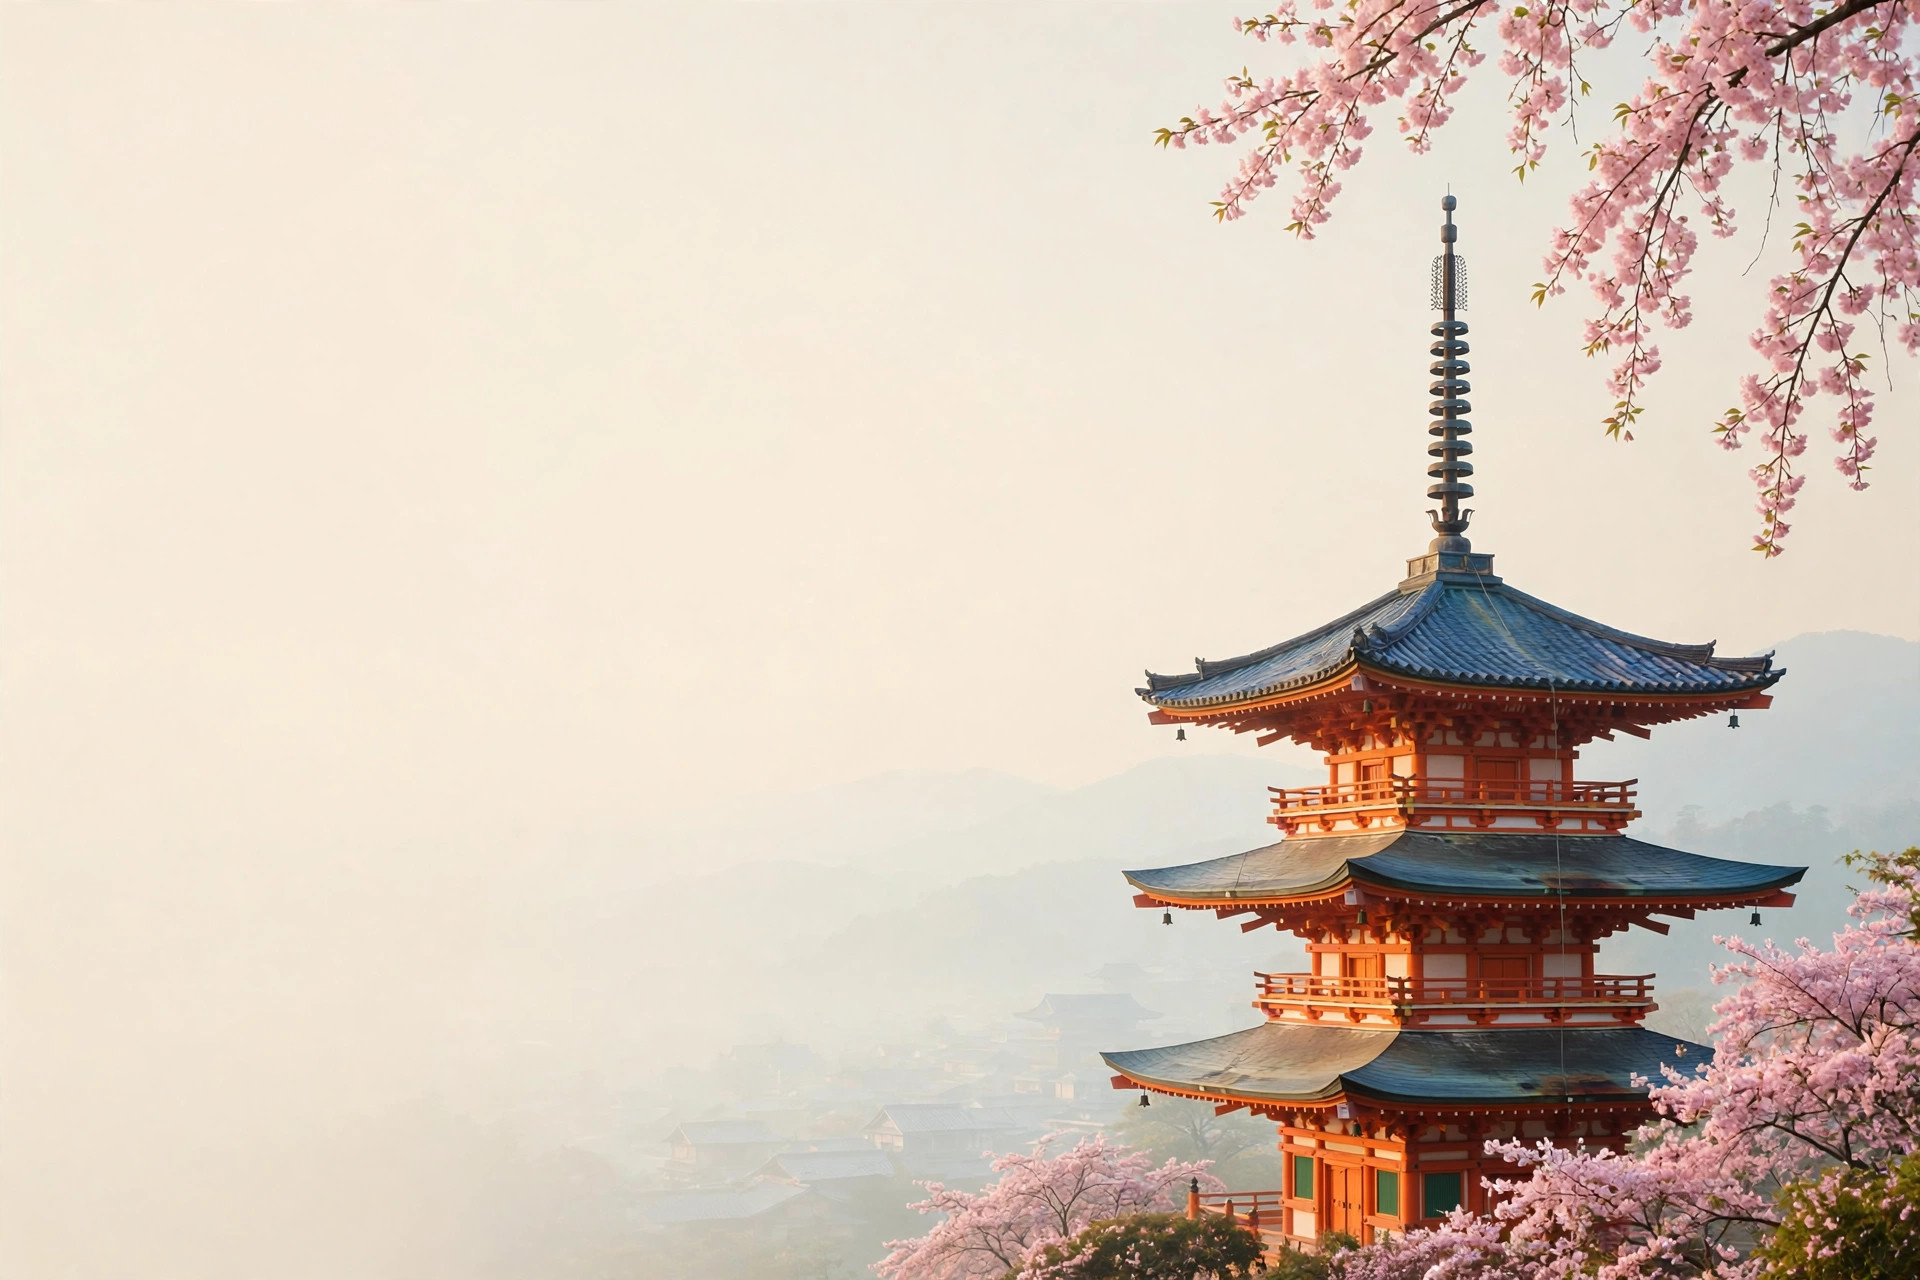
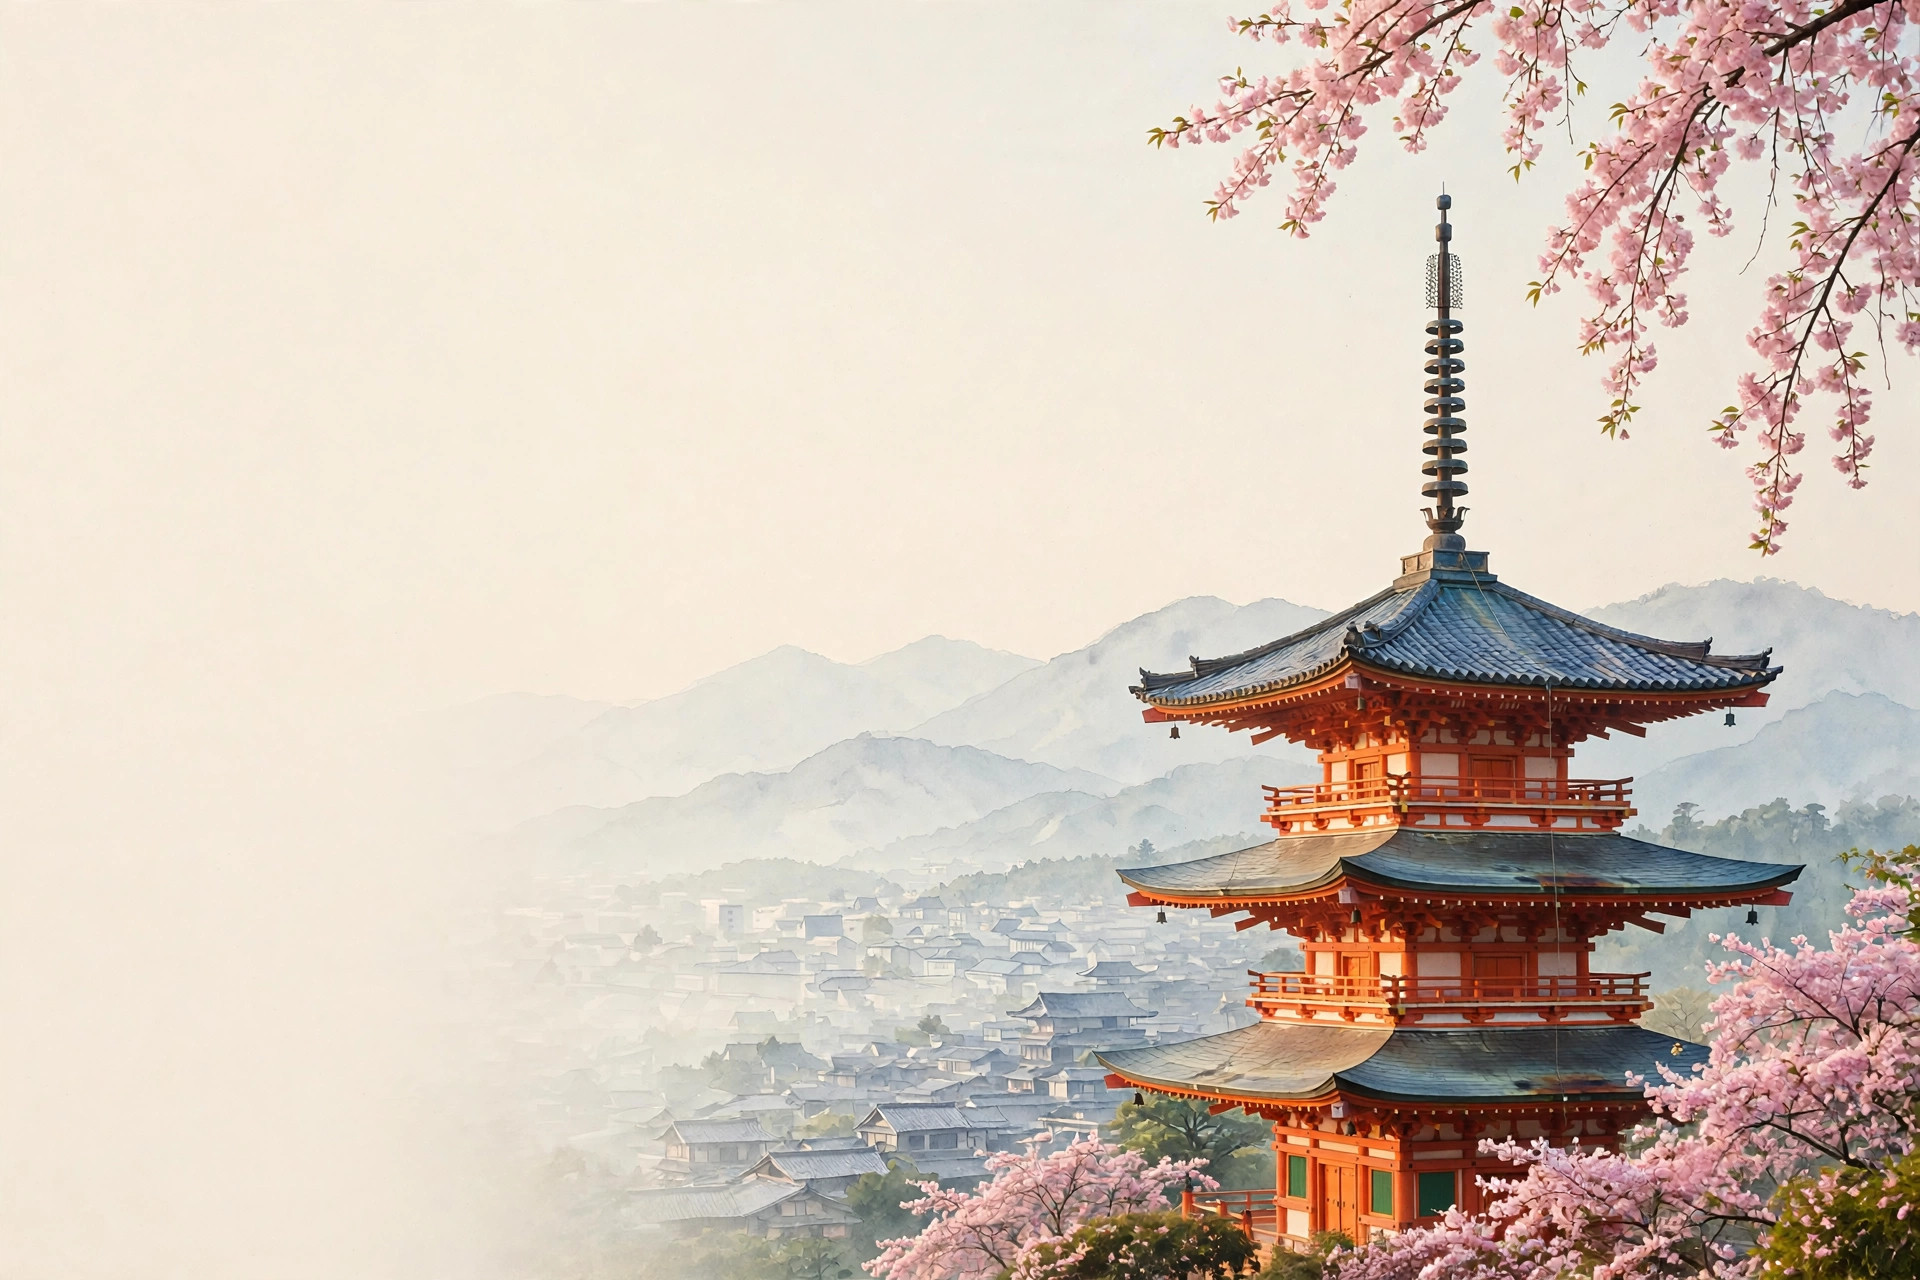
Hero: restore mountains and town backdrop; lighten bottom wash

Changed region(s): [[0.3438, 0.0, 1.0, 1.0], [0.3125, 0.7188, 0.3438, 0.75]]

diff --git a/src/pages/home/index.vue b/src/pages/home/index.vue
@@ -255,7 +255,7 @@ const promoBg = `
 .hwash{position:absolute;left:0;top:0;right:0;bottom:0;
   background:
     linear-gradient(90deg, rgba(250,247,242,.80) 0%, rgba(250,247,242,.32) 52%, rgba(250,247,242,0) 80%),
-    linear-gradient(180deg, rgba(250,247,242,.10) 0%, rgba(250,247,242,0) 45%, rgba(250,247,242,.55) 82%, $paper 100%)}
+    linear-gradient(180deg, rgba(250,247,242,.10) 0%, rgba(250,247,242,0) 45%, rgba(250,247,242,.38) 82%, $paper 100%)}
 .hin{position:relative;display:flex;justify-content:space-between;padding:46rpx 36rpx 64rpx}
 .hcopy{display:flex;flex-direction:column;max-width:66%}
 .ta{font-family:$font-serif;font-size:54rpx;font-weight:600;color:$ink;line-height:1.18}
